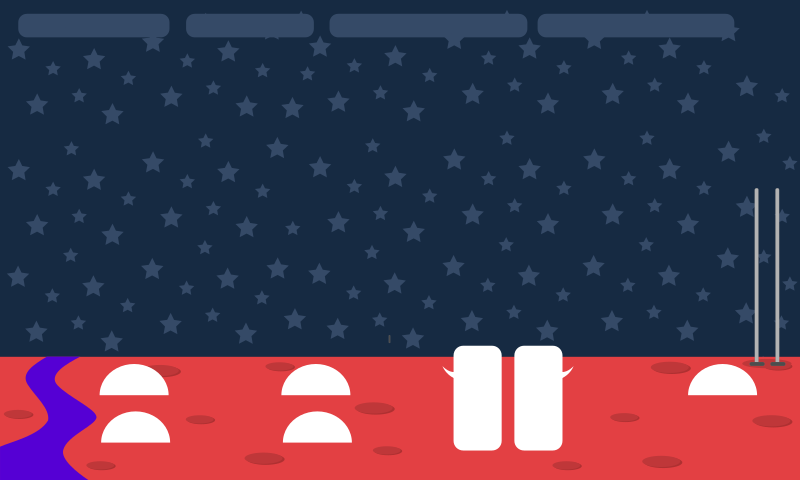
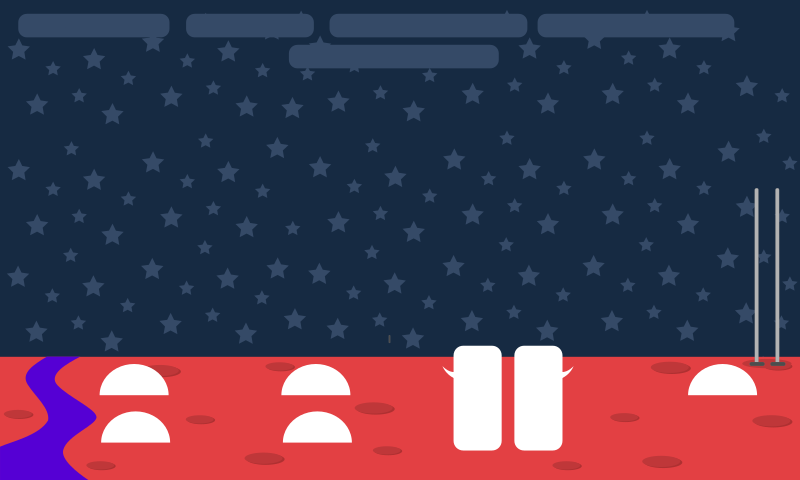
adding number of cats at screen

Changed region(s): [[0.3438, 0.0625, 0.625, 0.1562]]

diff --git a/core/src/com/strzal/hungry/hud/Hud.java b/core/src/com/strzal/hungry/hud/Hud.java
@@ -38,11 +38,13 @@ public class Hud implements Disposable {
     //Labels
     Label cashLabel;
     Label waveLabel;
+    Label numberOfCatsInLineLabel;
 
     //Constants
     private static float LABELS_Y_POSITION = GameConfig.SCREEN_HEIGHT - 40;
     private static float CASH_LABEL_X_POSITION = 30;
     private static float WAVE_LABEL_X_POSITION = 195;
+    private static float CATS_LEFT_LABEL_X_POSITION = 300;
     private static float OXYGEN_LABEL_X_POSITION = 340;
     private static float ENERGY_LABEL_X_POSITION = 545;
     private static float ENDLESS_LABEL_X_POSITION = 20;
@@ -56,6 +58,7 @@ public class Hud implements Disposable {
         stage = new Stage(new FitViewport(GameConfig.SCREEN_WIDTH, GameConfig.SCREEN_HEIGHT));
         assetManager = game.getAssetManager();
         shapeRenderer = new ShapeRenderer();
+        shapeRenderer.setProjectionMatrix(stage.getViewport().getCamera().combined);
 
         atlas = new TextureAtlas(ImagesPaths.UI_SKIN_ATLAS);
         skin = new Skin(Gdx.files.internal(ImagesPaths.UI_SKIN_JSON), atlas);
@@ -67,6 +70,7 @@ public class Hud implements Disposable {
         addEnergyText();
         addGoToMenuButton();
         addEndlessText();
+        addNumberOfCatsLeftText();
     }
 
     private void addGoToMenuButton() {
@@ -121,6 +125,12 @@ public class Hud implements Disposable {
         }
     }
 
+    private void addNumberOfCatsLeftText() {
+        numberOfCatsInLineLabel = new Label("Number of cats in line: " + gameController.getHungryEntityList().size(), skin);
+        numberOfCatsInLineLabel.setPosition(CATS_LEFT_LABEL_X_POSITION, LABELS_Y_POSITION - 30);
+        stage.addActor(numberOfCatsInLineLabel);
+    }
+
     public void resize(int width, int height) {
         stage.getViewport().update(width, height);
     }
@@ -129,6 +139,7 @@ public class Hud implements Disposable {
         stage.act(Gdx.graphics.getDeltaTime());
         cashLabel.setText("Cash: " + gameController.getGameStats().getCash());
         waveLabel.setText("Week: " + gameController.getGameStats().getWave());
+        numberOfCatsInLineLabel.setText("Number of cats in line: " + gameController.getHungryEntityList().size());
         stage.draw();
 
         drawEnergyBar();
